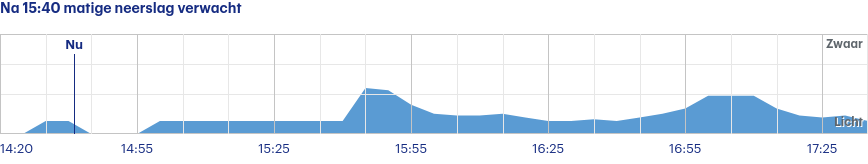
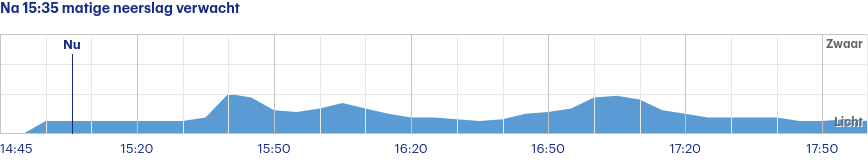
Latest scraping buienradar: Sun Aug  6 13:01:37 UTC 2023

diff --git a/scrapes/buienradar/buienradar-jette-3-uur.md b/scrapes/buienradar/buienradar-jette-3-uur.md
@@ -1,4 +1,4 @@
-Na 15:40 matige neerslag verwacht
+Na 15:35 matige neerslag verwacht
 
 ![](buienradar-jette-3-uur.png)
 
